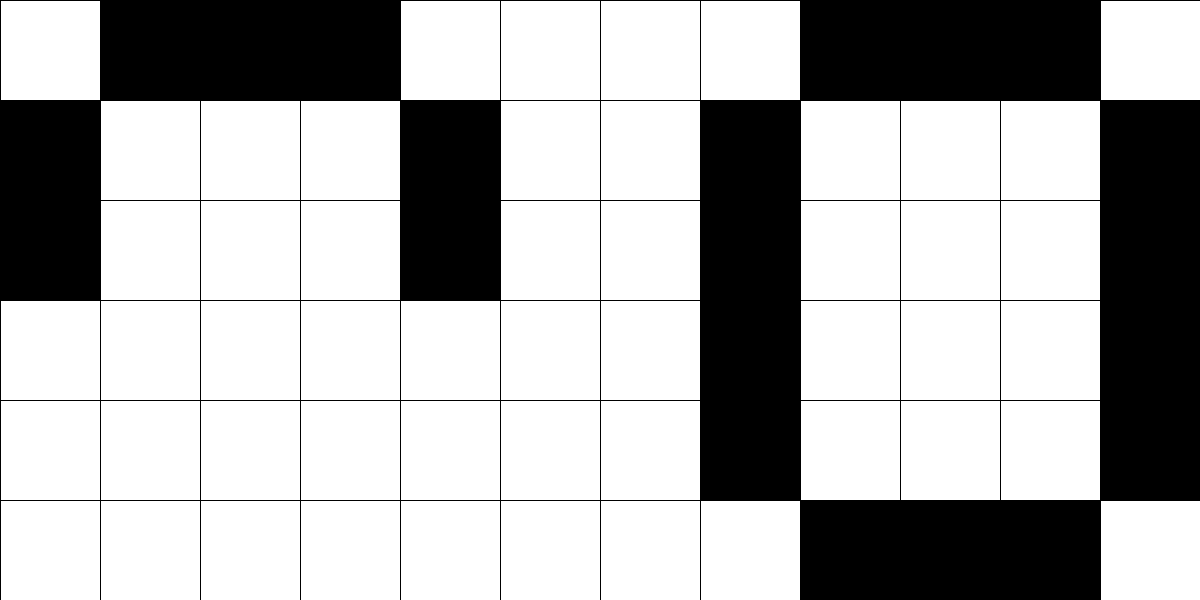
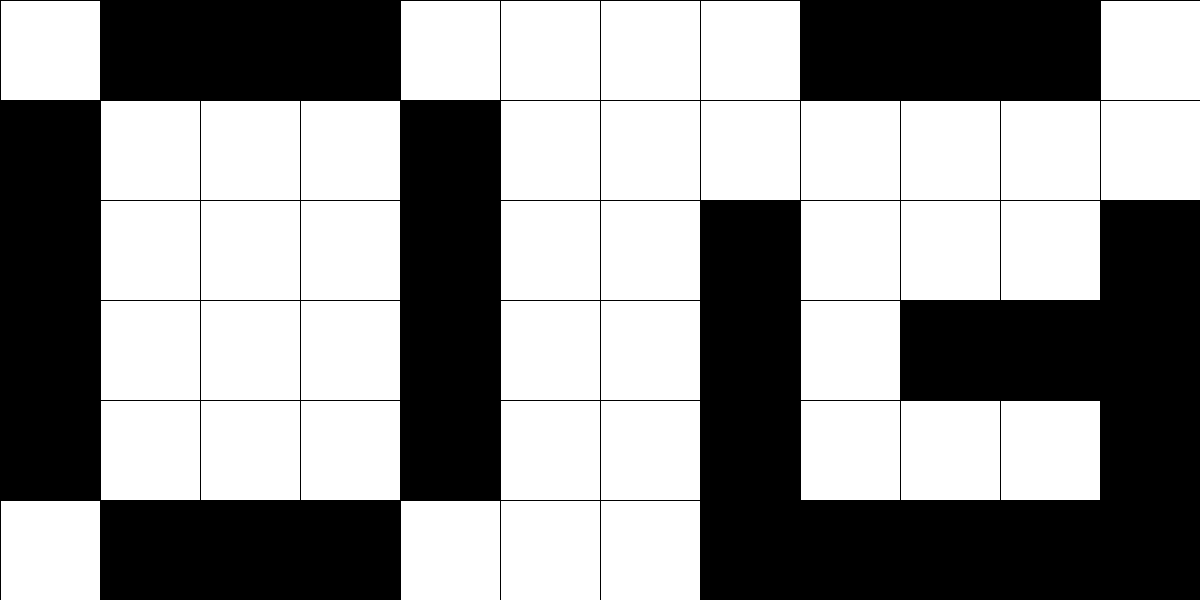
修改了

diff --git a/NN/1/hebbStart2.py b/NN/1/hebbStart2.py
@@ -1,0 +1,40 @@
+#coding:utf-8
+#InnerAc
+import hebb
+import show
+import numpy as np
+
+TI = [	[-1, 1, 1, 1,-1, 1,-1,-1,-1, 1, 1,-1,-1,-1, 1, 1,-1,-1,-1, 1, 1,-1,-1,-1, 1,-1, 1, 1, 1,-1],
+	    [-1, 1, 1,-1,-1,-1,-1, 1,-1,-1,-1,-1, 1,-1,-1,-1,-1, 1,-1,-1,-1,-1, 1,-1,-1,-1,-1, 1,-1,-1],
+	    [ 1, 1, 1,-1,-1,-1,-1,-1, 1,-1,-1,-1,-1, 1,-1,-1, 1, 1,-1,-1,-1, 1,-1,-1,-1,-1, 1, 1, 1, 1],
+	    [ 1, 1, 1, 1,-1,-1,-1,-1,-1, 1,-1, 1, 1, 1, 1,-1,-1,-1,-1, 1,-1,-1,-1,-1, 1, 1, 1, 1, 1,-1],
+	    [ 1,-1,-1, 1,-1, 1,-1,-1, 1,-1, 1,-1,-1, 1,-1, 1, 1, 1, 1, 1,-1,-1,-1, 1,-1,-1,-1,-1, 1,-1],
+	    [ 1, 1, 1, 1, 1, 1,-1,-1,-1,-1, 1, 1, 1, 1,-1,-1,-1,-1,-1, 1,-1,-1,-1,-1, 1, 1, 1, 1, 1,-1],
+	    [-1, 1, 1, 1, 1, 1,-1,-1,-1,-1, 1, 1, 1, 1,-1, 1,-1,-1,-1, 1, 1,-1,-1,-1, 1,-1, 1, 1, 1,-1],
+	    [ 1, 1, 1, 1, 1,-1,-1,-1,-1, 1,-1,-1,-1,-1, 1,-1,-1,-1,-1, 1,-1,-1,-1,-1, 1,-1,-1,-1,-1, 1],
+	    [-1, 1, 1, 1,-1, 1,-1,-1,-1, 1,-1, 1, 1, 1,-1, 1,-1,-1,-1, 1, 1,-1,-1,-1, 1,-1, 1, 1, 1,-1],
+	    [-1, 1, 1, 1,-1, 1,-1,-1,-1, 1, 1, 1, 1, 1, 1,-1,-1,-1,-1, 1,-1,-1,-1,-1, 1, 1, 1, 1, 1,-1]
+	]
+
+
+TO = [
+	[-1,-1, 1,-1,-1,-1, 1,-1, 1,-1, 1,-1,-1,-1, 1, 1, 1, 1, 1, 1, 1,-1,-1,-1, 1, 1,-1,-1,-1, 1],
+	[ 1, 1, 1, 1,-1, 1,-1,-1,-1, 1, 1, 1, 1, 1,-1, 1,-1,-1,-1, 1, 1,-1,-1,-1, 1, 1, 1, 1, 1,-1],
+	[ 1, 1, 1, 1,-1, 1,-1,-1,-1, 1, 1,-1,-1,-1,-1, 1,-1,-1,-1,-1, 1,-1,-1,-1, 1, 1, 1, 1, 1,-1],
+	[ 1, 1, 1, 1,-1, 1,-1,-1,-1, 1, 1,-1,-1,-1, 1, 1,-1,-1,-1, 1, 1,-1,-1,-1, 1, 1, 1, 1, 1,-1],
+	[ 1, 1, 1, 1, 1, 1,-1,-1,-1,-1, 1, 1, 1, 1, 1, 1,-1,-1,-1,-1, 1,-1,-1,-1,-1, 1, 1, 1, 1, 1],
+	[ 1, 1, 1, 1, 1, 1,-1,-1,-1,-1, 1, 1, 1, 1, 1, 1,-1,-1,-1,-1, 1,-1,-1,-1,-1, 1,-1,-1,-1,-1],
+	[ 1, 1, 1, 1, 1, 1,-1,-1,-1, 1, 1,-1,-1,-1,-1, 1,-1, 1, 1, 1, 1,-1,-1,-1, 1, 1, 1, 1, 1, 1],
+	[ 1,-1,-1,-1, 1, 1,-1,-1,-1, 1, 1, 1, 1, 1, 1, 1,-1,-1,-1, 1, 1,-1,-1,-1, 1, 1,-1,-1,-1, 1],
+	[-1, 1, 1, 1,-1,-1,-1, 1,-1,-1,-1,-1, 1,-1,-1,-1,-1, 1,-1,-1,-1,-1, 1,-1,-1,-1, 1, 1, 1,-1],
+	[-1,-1,-1, 1,-1,-1,-1,-1, 1,-1,-1,-1,-1, 1,-1,-1,-1,-1, 1,-1, 1,-1,-1, 1,-1, 1, 1, 1, 1,-1]
+]
+
+if __name__ == '__main__':
+	
+	W = hebb.training(TI,TO)
+	i = 0
+	for p in TI:
+		a = hebb.start(p,W)
+		show.drawTwo(p,a,i)
+		i += 1

diff --git a/NN/1/test.py b/NN/1/test.py
@@ -1,0 +1,36 @@
+#coding:utf-8
+#InnerAc
+import hebb
+import show
+import numpy as np
+
+TI = [	[-1, 1, 1, 1,-1, 1,-1,-1,-1, 1, 1,-1,-1,-1, 1, 1,-1,-1,-1, 1, 1,-1,-1,-1, 1,-1, 1, 1, 1,-1],
+	    [-1, 1, 1,-1,-1,-1,-1, 1,-1,-1,-1,-1, 1,-1,-1,-1,-1, 1,-1,-1,-1,-1, 1,-1,-1,-1,-1, 1,-1,-1],
+	    [ 1, 1, 1,-1,-1,-1,-1,-1, 1,-1,-1,-1,-1, 1,-1,-1, 1, 1,-1,-1,-1, 1,-1,-1,-1,-1, 1, 1, 1, 1],
+	    [ 1, 1, 1, 1,-1,-1,-1,-1,-1, 1,-1, 1, 1, 1, 1,-1,-1,-1,-1, 1,-1,-1,-1,-1, 1, 1, 1, 1, 1,-1],
+	    [ 1,-1,-1, 1,-1, 1,-1,-1, 1,-1, 1,-1,-1, 1,-1, 1, 1, 1, 1, 1,-1,-1,-1, 1,-1,-1,-1,-1, 1,-1],
+	    [ 1, 1, 1, 1, 1, 1,-1,-1,-1,-1, 1, 1, 1, 1,-1,-1,-1,-1,-1, 1,-1,-1,-1,-1, 1, 1, 1, 1, 1,-1],
+	    [-1, 1, 1, 1, 1, 1,-1,-1,-1,-1, 1, 1, 1, 1,-1, 1,-1,-1,-1, 1, 1,-1,-1,-1, 1,-1, 1, 1, 1,-1],
+	    [ 1, 1, 1, 1, 1,-1,-1,-1,-1, 1,-1,-1,-1,-1, 1,-1,-1,-1,-1, 1,-1,-1,-1,-1, 1,-1,-1,-1,-1, 1],
+	    [-1, 1, 1, 1,-1, 1,-1,-1,-1, 1,-1, 1, 1, 1,-1, 1,-1,-1,-1, 1, 1,-1,-1,-1, 1,-1, 1, 1, 1,-1],
+	    [-1, 1, 1, 1,-1, 1,-1,-1,-1, 1, 1, 1, 1, 1, 1,-1,-1,-1,-1, 1,-1,-1,-1,-1, 1, 1, 1, 1, 1,-1]
+	]
+
+
+TO = [
+	[-1,-1, 1,-1,-1,-1, 1,-1, 1,-1, 1,-1,-1,-1, 1, 1, 1, 1, 1, 1, 1,-1,-1,-1, 1, 1,-1,-1,-1, 1],
+	[ 1, 1, 1, 1,-1, 1,-1,-1,-1, 1, 1, 1, 1, 1,-1, 1,-1,-1,-1, 1, 1,-1,-1,-1, 1, 1, 1, 1, 1,-1],
+	[ 1, 1, 1, 1,-1, 1,-1,-1,-1, 1, 1,-1,-1,-1,-1, 1,-1,-1,-1,-1, 1,-1,-1,-1, 1, 1, 1, 1, 1,-1],
+	[ 1, 1, 1, 1,-1, 1,-1,-1,-1, 1, 1,-1,-1,-1, 1, 1,-1,-1,-1, 1, 1,-1,-1,-1, 1, 1, 1, 1, 1,-1],
+	[ 1, 1, 1, 1, 1, 1,-1,-1,-1,-1, 1, 1, 1, 1, 1, 1,-1,-1,-1,-1, 1,-1,-1,-1,-1, 1, 1, 1, 1, 1],
+	[ 1, 1, 1, 1, 1, 1,-1,-1,-1,-1, 1, 1, 1, 1, 1, 1,-1,-1,-1,-1, 1,-1,-1,-1,-1, 1,-1,-1,-1,-1],
+	[ 1, 1, 1, 1, 1, 1,-1,-1,-1, 1, 1,-1,-1,-1,-1, 1,-1, 1, 1, 1, 1,-1,-1,-1, 1, 1, 1, 1, 1, 1],
+	[ 1,-1,-1,-1, 1, 1,-1,-1,-1, 1, 1, 1, 1, 1, 1, 1,-1,-1,-1, 1, 1,-1,-1,-1, 1, 1,-1,-1,-1, 1],
+	[-1, 1, 1, 1,-1,-1,-1, 1,-1,-1,-1,-1, 1,-1,-1,-1,-1, 1,-1,-1,-1,-1, 1,-1,-1,-1, 1, 1, 1,-1],
+	[-1,-1,-1, 1,-1,-1,-1,-1, 1,-1,-1,-1,-1, 1,-1,-1,-1,-1, 1,-1, 1,-1,-1, 1,-1, 1, 1, 1, 1,-1]
+]
+
+if __name__ == '__main__':
+	
+	for i in range(10):
+		show.drawTwo(TI[i],TO[i],0)

diff --git a/NN/1/hebb.py b/NN/1/hebb.py
@@ -5,14 +5,16 @@ import show
 hardlims = lambda x: 1 if x >= 0 else -1
 
 # 开始训练，传入训练样本 list,返回权值矩阵
-def training(ps):
+def training(inp,outp):
 	# 初始化权值矩阵 W
 	ze = np.zeros([30,30])
 	W = np.matrix(ze)
 	# 使用Hebb规则求权值矩阵
-	for p in ps:
-		pp = np.matrix(p)
-		W += pp.T * pp
+	n = len(inp)
+	for i in range(n):
+		pi = np.matrix(inp[i])
+		po = np.matrix(outp[i])
+		W += pi.T * po
 	return W
 # 开始测试，输入测试样例和权值矩阵,返回输出的矩阵并且转换为数组
 def start(pt,W):

diff --git a/NN/1/hebbStart.py b/NN/1/hebbStart.py
@@ -30,7 +30,7 @@ test_half = [
 
 if __name__ == '__main__':
 	
-	W = hebb.training(ps)
+	W = hebb.training(ps,ps)
 	i = 0
 	for p in test_half:
 		a = hebb.start(p,W)
